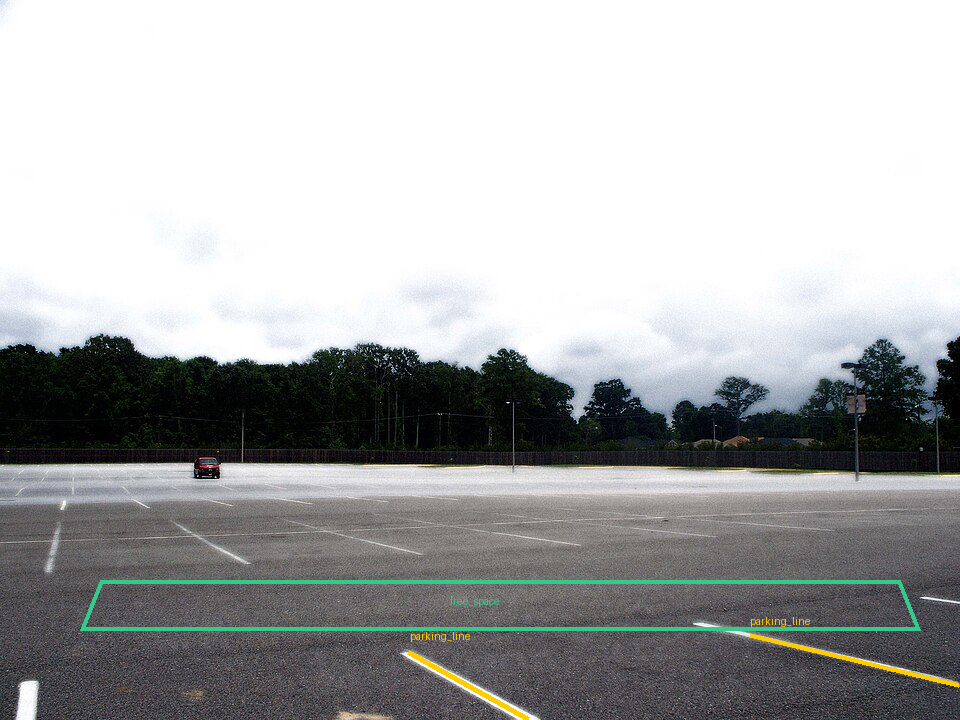
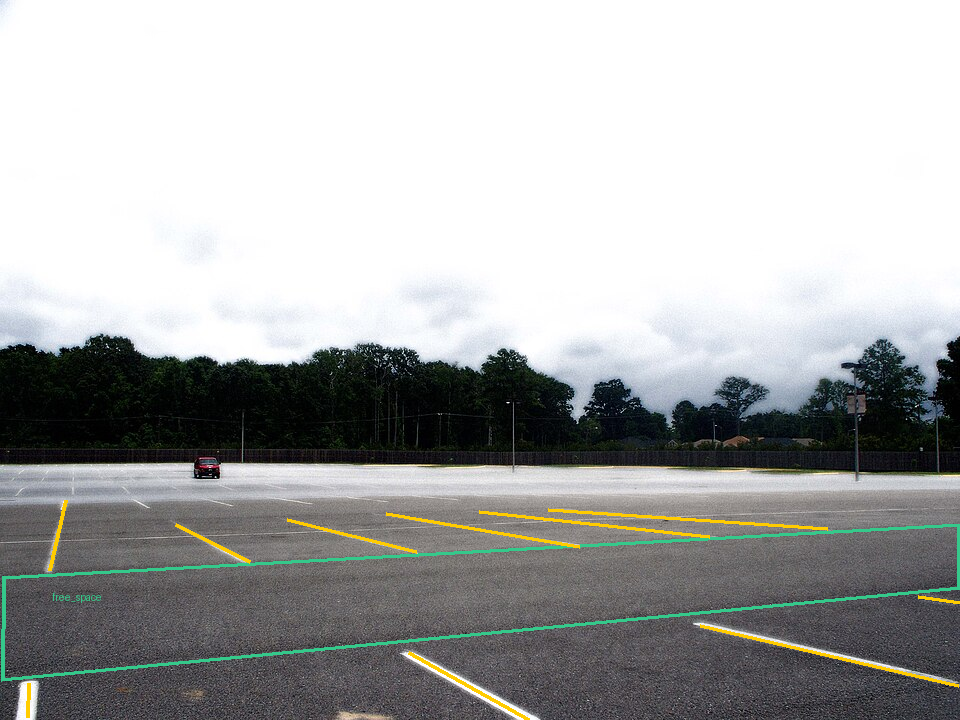
Sync user's refined annotations from CVAT (10 parking lines, full-aisle free space) and update deliverables

diff --git a/submission/parking/observations.md b/submission/parking/observations.md
@@ -1,11 +1,11 @@
 # Quan sát vạch ô đỗ
 
 - Hai vạch `parking_line` đã vẽ (mô tả vị trí trong ảnh):
-  1. Vạch trung tâm tiền cảnh: polyline từ (408.5, 652.0) đến (528.0, 719.0), là vạch sơn trắng phân định mép trái của ô đỗ xe ngay hàng đầu tiên gần góc nhìn camera.
-  2. Vạch bên phải tiền cảnh: polyline từ (750.5, 635.0) đến (958.0, 685.0), là vạch sơn trắng phân định mép phải của ô đỗ xe liền kề ở hàng đầu tiên.
+  1. Đã vẽ chi tiết 10 đoạn vạch `parking_line` phân định các ô đỗ riêng lẻ: bao gồm các vạch ô đỗ ở hàng tiền cảnh (vạch chéo trái x ≈ 408–528, y ≈ 652–719; vạch chéo phải x ≈ 701–958, y ≈ 625–685; vạch biên trái x ≈ 28, y ≈ 683–717; vạch biên phải x ≈ 918–960, y ≈ 596–602).
+  2. Toàn bộ các vạch phân cách ô đỗ ở hàng thứ hai phía trên (x từ 65 đến 828, y từ 500 đến 570) cũng được vẽ bám sát từng vạch sơn trắng nhìn thấy rõ nét trên mặt bãi đỗ.
 - Một vạch/dấu sơn hoặc biên **không** vẽ, và vì sao:
-  Vạch sơn biên dài phía sau (khu vực x=50 đến x=300, y ≈ 500–520) gần hàng cây và hàng rào xa không được vẽ, vì đây là vạch dẫn hướng lối đi/ranh giới phân khu giao thông trong bãi, không phải vạch sơn chia một ô đỗ xe (stall) riêng lẻ. Ngoài ra các vạch đỗ ở các hàng quá xa bị mờ và suy giảm độ tương phản cũng được bỏ qua theo đúng nguyên tắc không suy diễn khi không thấy rõ ranh giới ô.
+  Vạch sơn biên dài phía sau (khu vực hàng cây xa sát chân tường rào x=50 đến x=300, y ≈ 450–490) và các đường ranh giới khu vực không được vẽ, vì đây là vạch giới hạn chu vi bãi/dẫn hướng luồng xe chạy nội bộ, không đóng vai trò phân định ranh giới một ô đỗ xe (stall) riêng lẻ. Ngoài ra các vệt mờ do phản chiếu ánh sáng ở phía xa cũng được loại bỏ theo nguyên tắc không suy đoán ngoài vùng nhìn thấy rõ.
 - Polygon `free_space` dừng ở đâu; có phần bị che nào không:
-  Polygon `free_space` bao trọn lòng đường xe chạy nội bộ (aisle/driveway) giữa hàng ô đỗ tiền cảnh (y ≈ 630) và hàng ô đỗ phía trên (y ≈ 580), kéo dài ngang khung hình từ x=80 đến x=920. Vùng này hoàn toàn là mặt nhựa đường trống, không bị xe cộ hay vật thể nào che khuất; biên polygon dừng chính xác tại ranh giới trước khi chạm vào các vạch ô đỗ.
+  Polygon `free_space` bao trọn toàn bộ mặt phẳng lòng đường xe chạy nội bộ (driveway/aisle) kéo dài ngang suốt chiều rộng khung hình (từ x=2 đến x=960, y dao động từ 523 đến 682) nằm giữa hàng ô đỗ tiền cảnh và hàng ô đỗ phía trên. Vùng này hoàn toàn là bề mặt nhựa đường thông thoáng, không có xe cộ đậu lấn, không có người đi bộ hay vật cản; polygon dừng chính xác tại mép đầu các vạch phân ô đỗ và mép khung hình.
 - Ca chưa chắc cần hỏi người soát (nếu không có, ghi “không có”):
   không có
